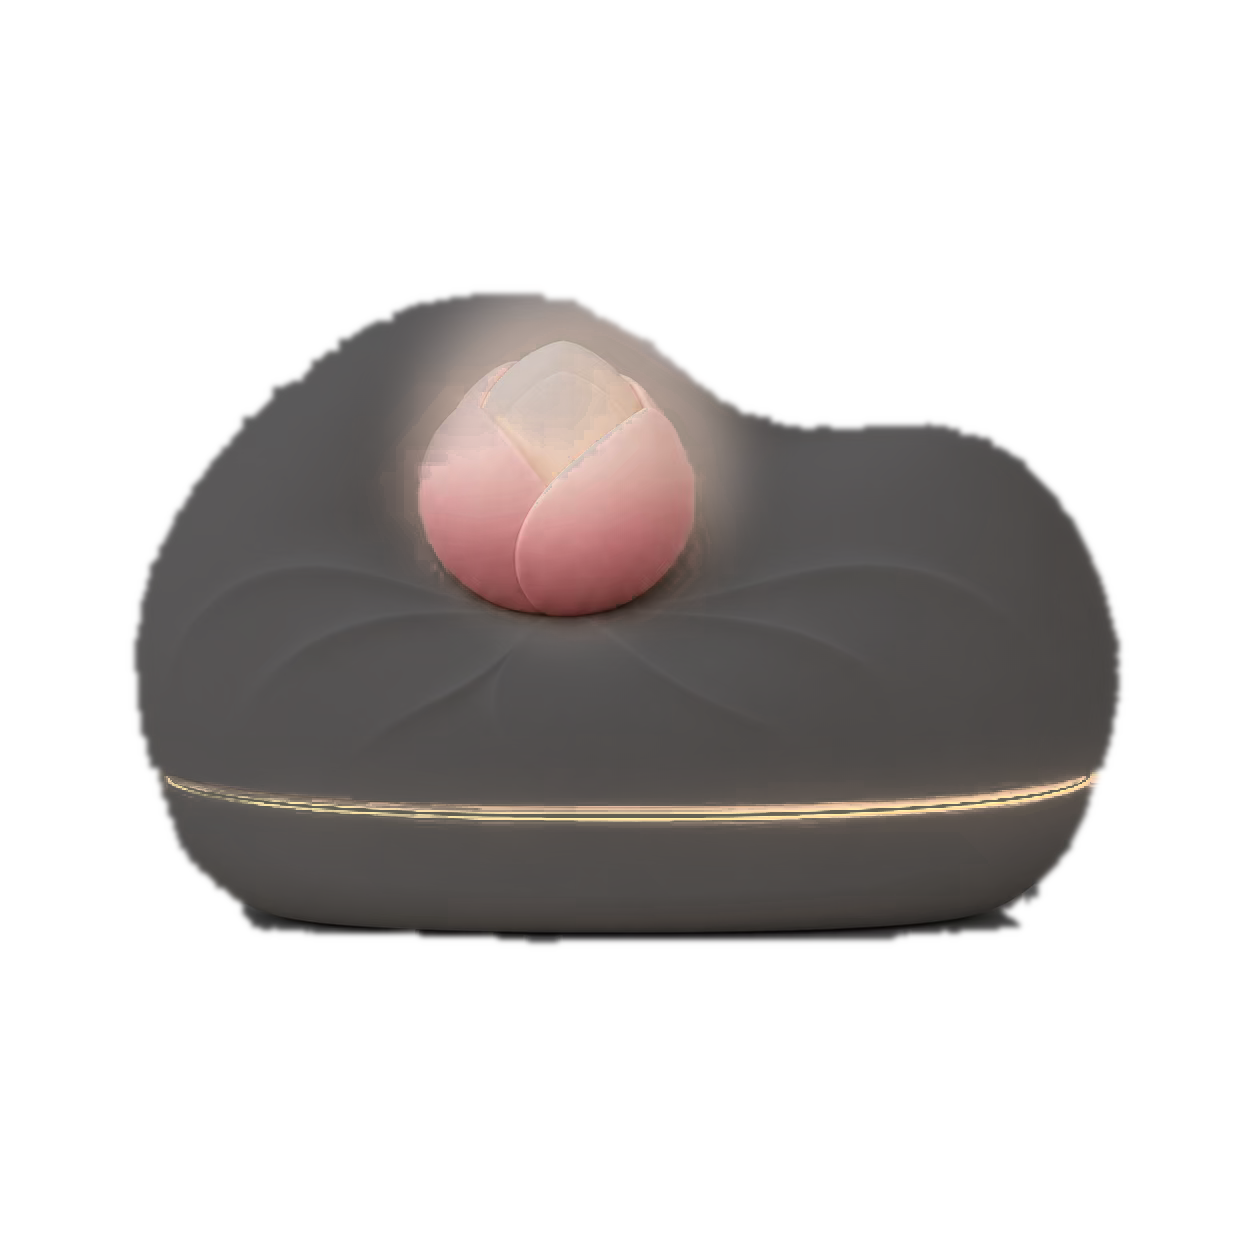
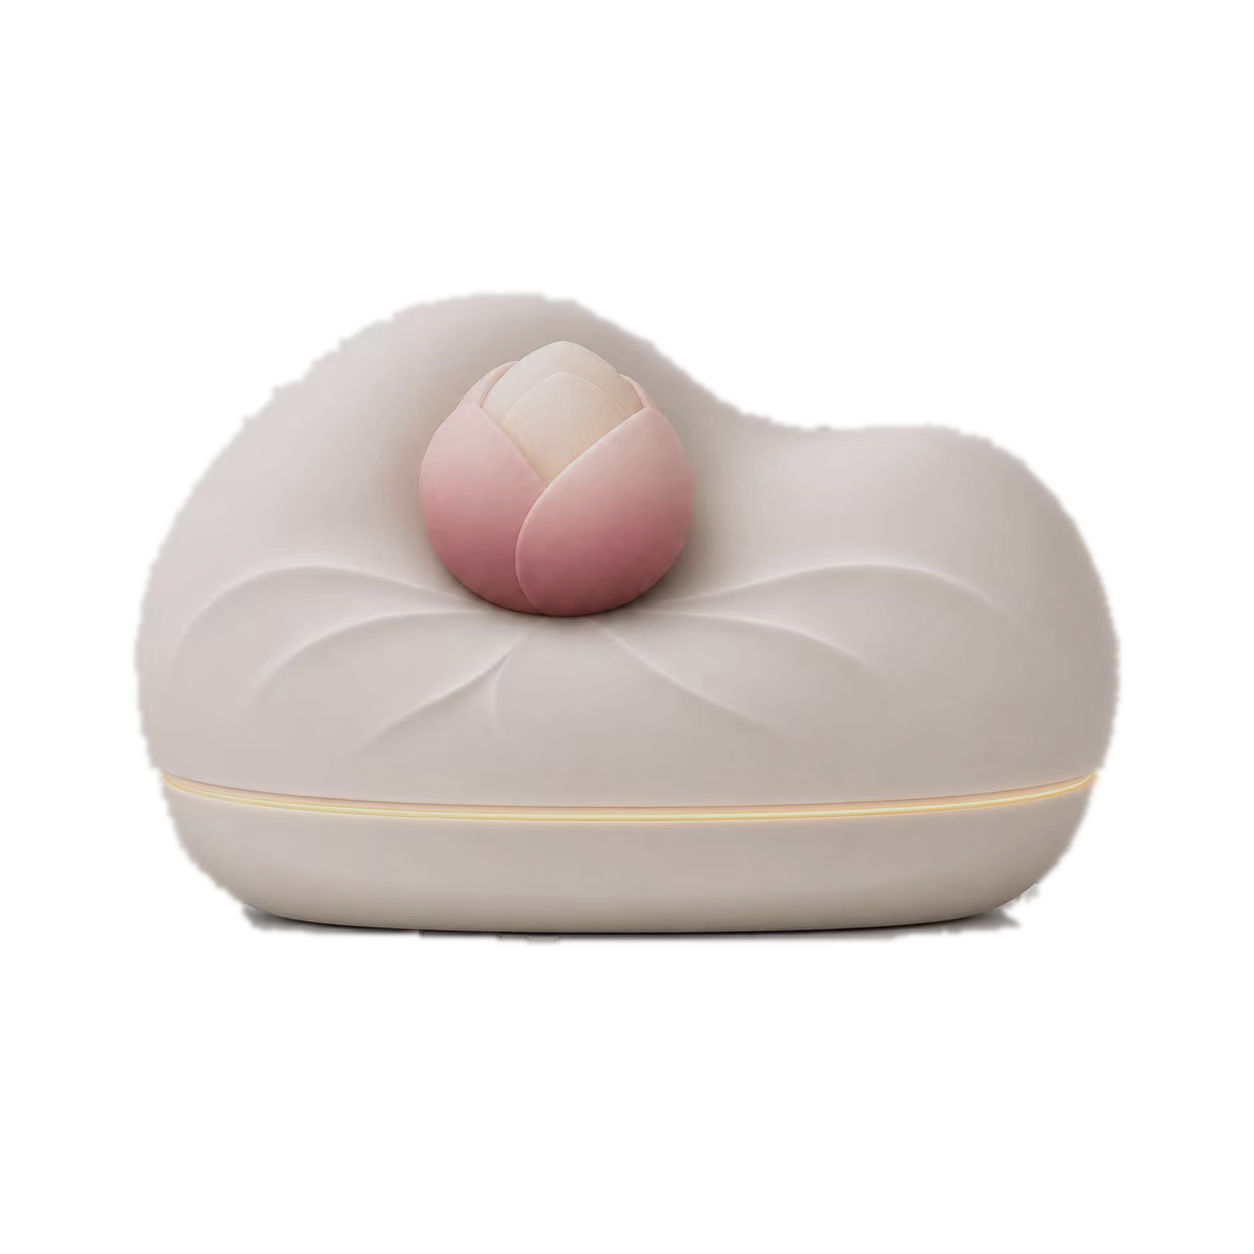
夜间恢复奶白本色（仅压至九成 + 极淡冷调），花心光晕收小收淡

Changed region(s): [[0.0933, 0.2177, 0.9019, 0.7775]]

diff --git a/css/lotus.css b/css/lotus.css
@@ -56,33 +56,33 @@ html[data-theme="night"] .censer-wrap::before {
   position: absolute;
   left: 47%;
   top: 36%;
-  width: 34%;
-  height: 34%;
+  width: 24%;
+  height: 24%;
   transform: translate(-50%, -50%) scale(.72);
   border-radius: 50%;
   z-index: 3;
   pointer-events: none;
   opacity: 0;
   background: radial-gradient(circle closest-side,
-    rgba(255, 196, 214, .85) 0%,
-    rgba(255, 176, 200, .40) 34%,
-    rgba(255, 170, 196, .12) 58%,
-    rgba(255, 170, 196, 0) 78%);
-  filter: blur(10px);
+    rgba(255, 200, 216, .62) 0%,
+    rgba(255, 182, 203, .26) 38%,
+    rgba(255, 176, 200, .08) 60%,
+    rgba(255, 176, 200, 0) 78%);
+  filter: blur(7px);
   transition: opacity 1.5s cubic-bezier(.4, 0, .2, 1), transform 2.4s cubic-bezier(.33, .02, .2, 1);
 }
 body.is-igniting .censer-budglow {
-  opacity: .95;
-  transform: translate(-50%, -50%) scale(1.06);
+  opacity: .80;
+  transform: translate(-50%, -50%) scale(1.02);
 }
 body.is-lit .censer-budglow {
-  opacity: .62;
+  opacity: .38;
   transform: translate(-50%, -50%) scale(1);
   animation: budBreath 5.6s ease-in-out infinite;
 }
 @keyframes budBreath {
-  0%, 100% { opacity: .50; }
-  50%      { opacity: .74; }
+  0%, 100% { opacity: .30; }
+  50%      { opacity: .46; }
 }
 
 /* 点火瞬间整炉泛一层暖粉 */
